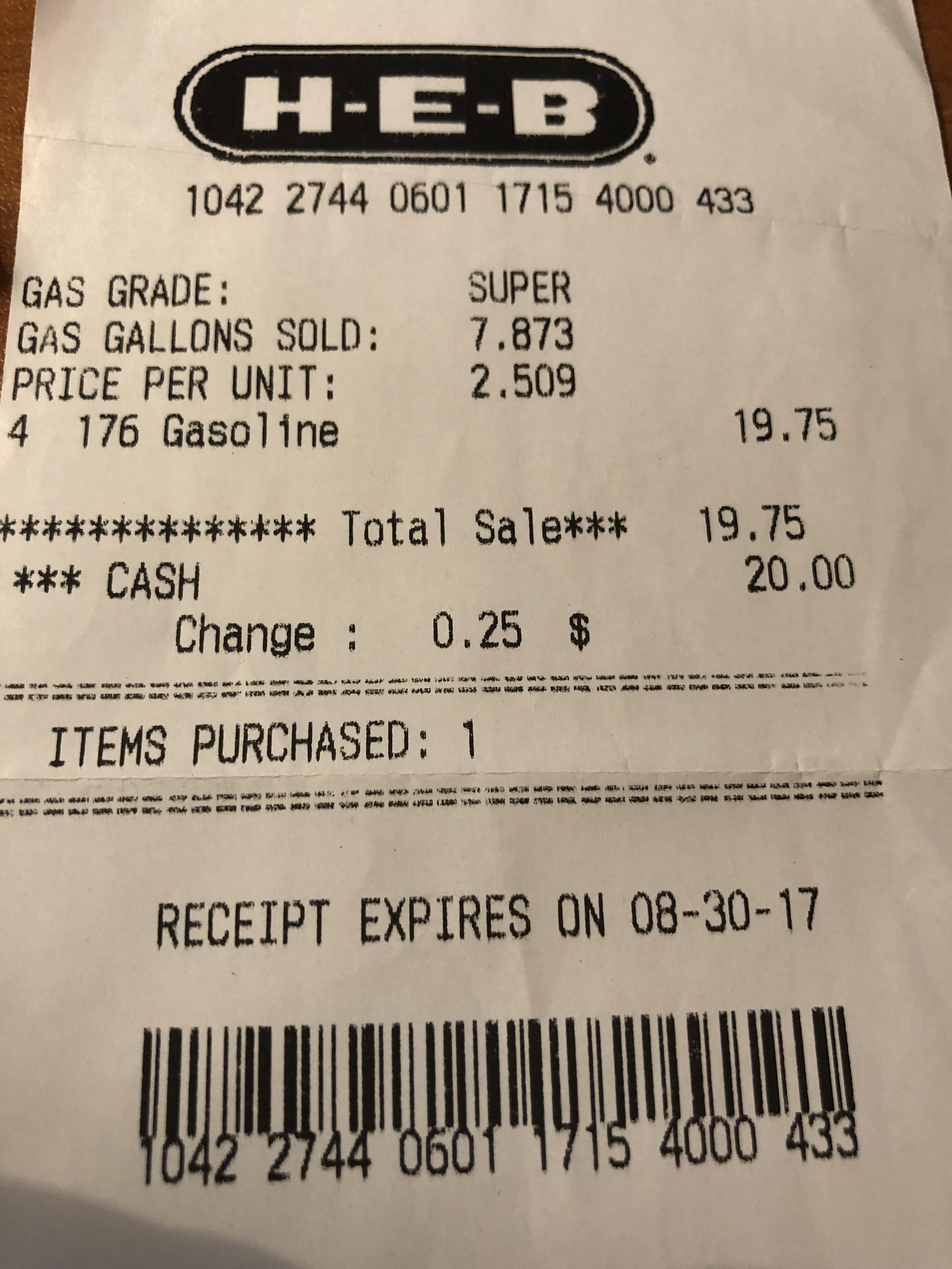
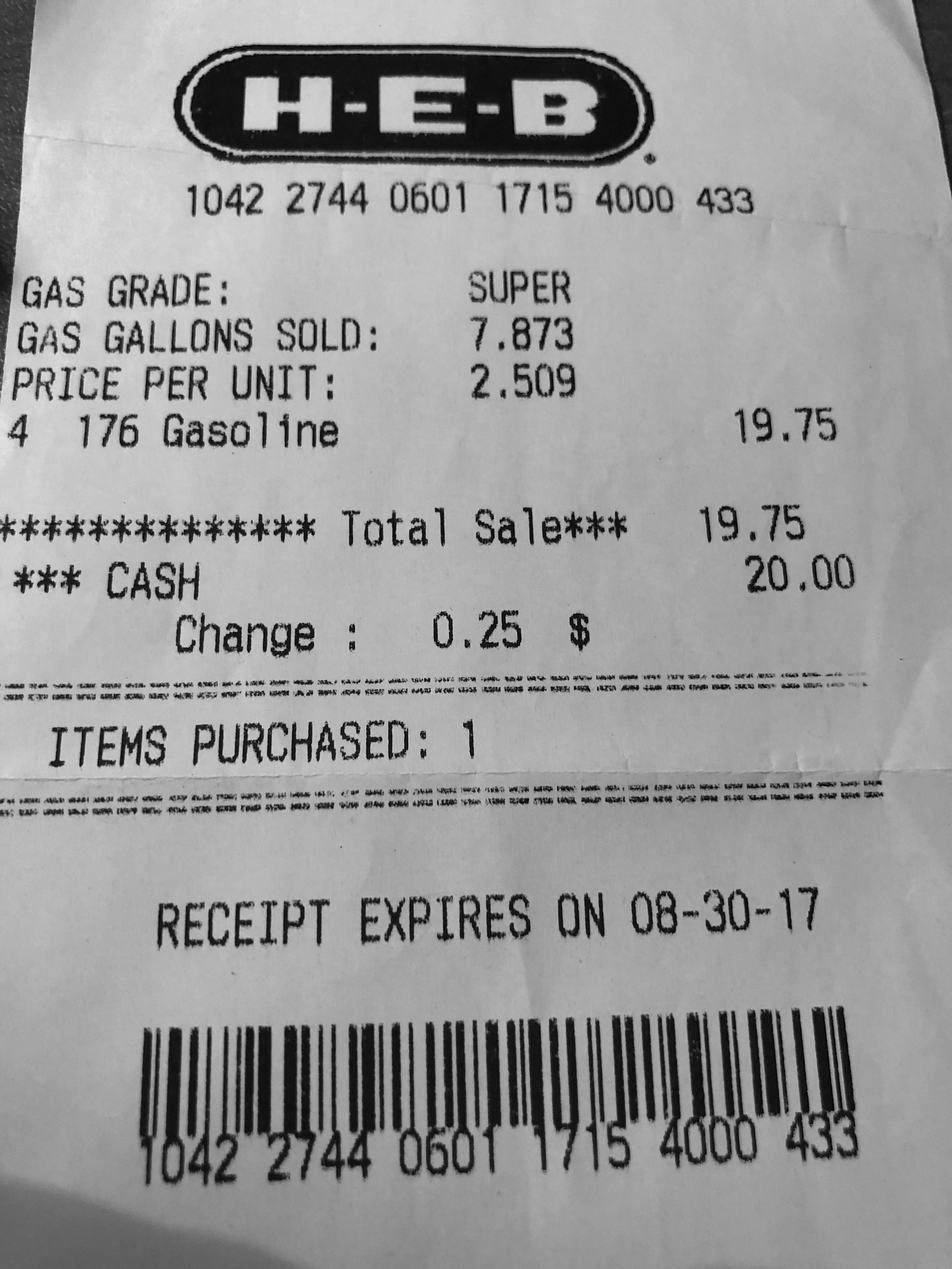
added grayscaling, resulting in the improving of readability by tesseract. Working on training using older fonts.

Changed region(s): [[0.0, 0.0, 0.0622, 0.3125], [0.9636, 0.0, 1.0, 0.125]]

diff --git a/lib/src/main/java/tessocm/project/Library.java b/lib/src/main/java/tessocm/project/Library.java
@@ -15,8 +15,10 @@ import java.io.IOException;
 
 public class Library {
     public static void main(String[] args) throws IOException {
-        File imageFile = new File("rotatedcc.png");
+        File imageFile = new File("dickens.jpg");
         BufferedImage b1 = ImageIO.read(imageFile);
+        adjustImage(b1);
+        ImageIO.write(b1, "jpg", new File("dickens.jpg"));
         ITesseract instance = new Tesseract();
         File tessDataFolder = LoadLibs.extractTessResources("tessdata");
         instance.setLanguage("eng");
@@ -28,7 +30,28 @@ public class Library {
             System.err.println(e.getMessage());
         }
     }
-    public boolean someLibraryMethod() {
-        return true;
+    public static void adjustImage(BufferedImage b1) {
+        int width = b1.getWidth();
+        int height = b1.getHeight();
+        int[] pixels = b1.getRGB(0,0,width,height,null,0,width);
+        for (int i = 0; i < pixels.length; i++) {
+
+            // Here i denotes the index of array of pixels
+            // for modifying the pixel value.
+            int p = pixels[i];
+
+            int a = (p >> 24) & 0xff;
+            int r = (p >> 16) & 0xff;
+            int g = (p >> 8) & 0xff;
+            int b = p & 0xff;
+
+            // calculate average
+            int avg = (r + g + b) / 3;
+
+            // replace RGB value with avg
+            p = (a << 24) | (avg << 16) | (avg << 8) | avg;
+            pixels[i] = p;
+        }
+        b1.setRGB(0, 0, width, height, pixels, 0, width);
     }
 }
